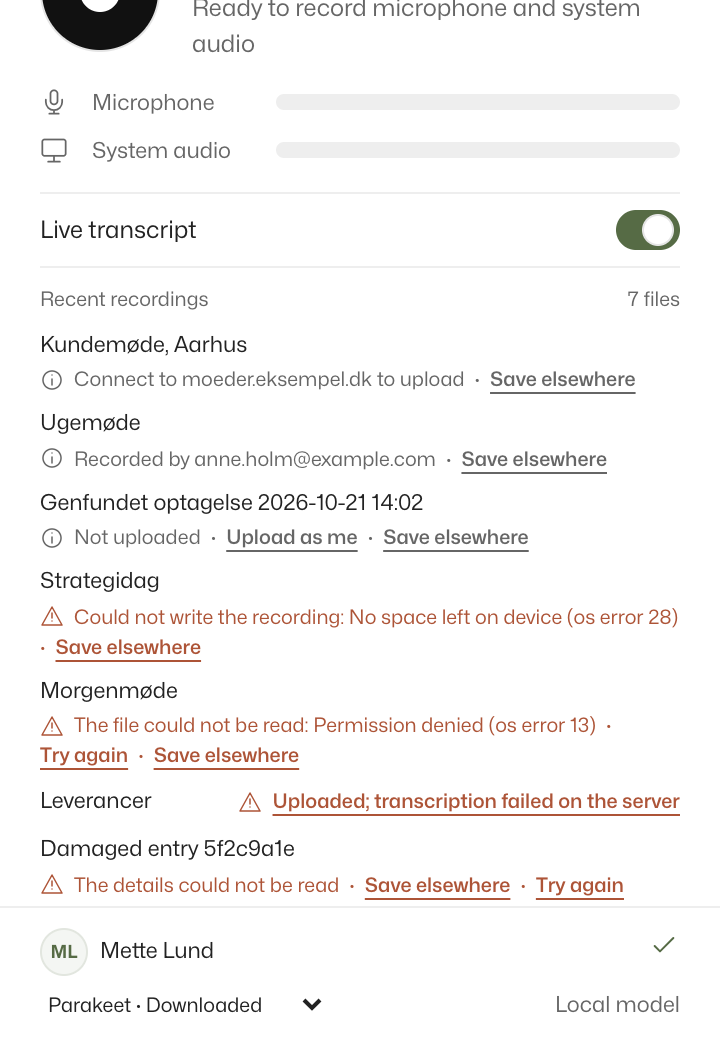
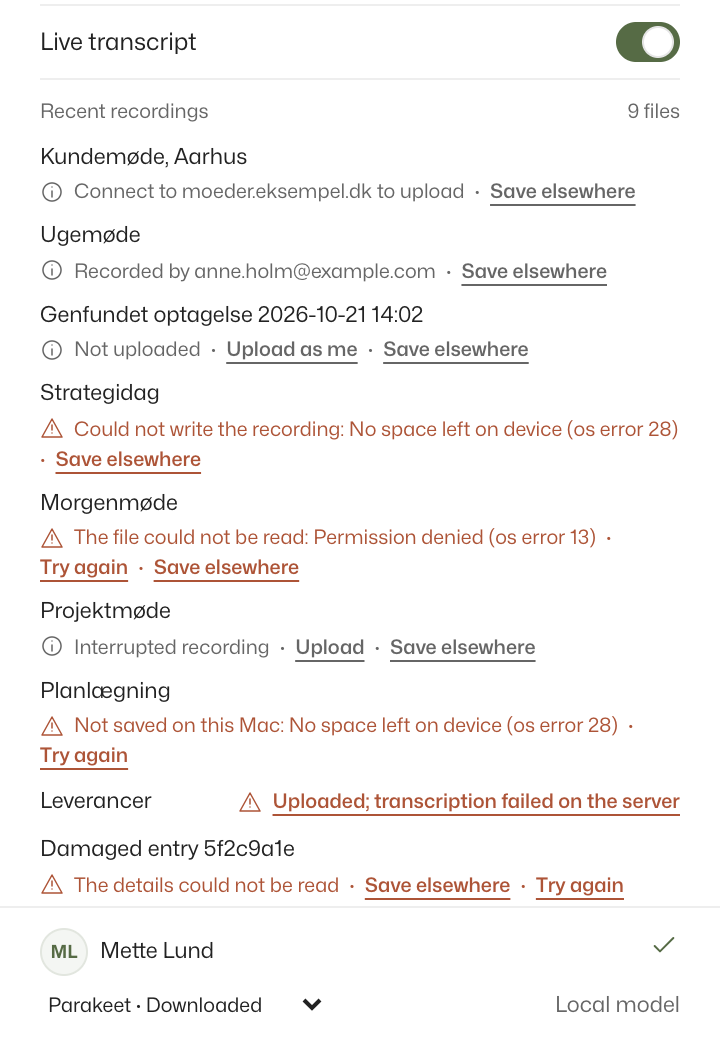
Decisions, README and screenshots after the second Codex pass

diff --git a/apps/recorder/test/placeholder.test.ts b/apps/recorder/test/placeholder.test.ts
@@ -7,7 +7,9 @@ import { setLanguage, translate } from '../src/locale';
 function hostInput() {
   const html = readFileSync(new URL('../index.html', import.meta.url), 'utf8');
   const tag = /<input[^>]*id="host"[^>]*>/s.exec(html)![0];
-  const attrs = Object.fromEntries([...tag.matchAll(/([a-z0-9-]+)="([^"]*)"/g)].map((m) => [m[1]!, m[2]!]));
+  const attrs = Object.fromEntries(
+    [...tag.matchAll(/([a-z0-9-]+)="([^"]*)"/g)].map((m) => [m[1]!, m[2]!]),
+  );
   const el = {
     attrs: { ...attrs } as Record<string, string>,
     dataset: { i18nAttr: attrs['data-i18n-attr'] } as Record<string, string | undefined>,
@@ -16,7 +18,8 @@ function hostInput() {
     },
   };
   const root = {
-    querySelectorAll: (sel: string) => (sel === '[data-i18n-attr]' && el.dataset.i18nAttr ? [el] : []),
+    querySelectorAll: (sel: string) =>
+      sel === '[data-i18n-attr]' && el.dataset.i18nAttr ? [el] : [],
   };
   return { el, root: root as unknown as ParentNode };
 }

diff --git a/apps/recorder/preview/fixtures.ts b/apps/recorder/preview/fixtures.ts
@@ -200,6 +200,13 @@ export const review: QueueItem[] = [
     local_error: 'Permission denied (os error 13)',
     can_save: true,
   }),
+  item({ id: 'r7', title: 'Projektmøde', status: 'uploading', needs_review: true, can_save: true }),
+  item({
+    id: 'r8',
+    title: 'Planlægning',
+    status: 'uploading',
+    unsaved: 'No space left on device (os error 28)',
+  }),
   item({
     id: 'r6',
     title: 'Leverancer',

diff --git a/apps/recorder/README.md b/apps/recorder/README.md
@@ -34,7 +34,7 @@ node apps/recorder/scripts/check-crate-licenses.mjs   # also run by pnpm check:l
 
 ## How it works
 
-- **Capture.** The microphone through cpal. System audio through a Core Audio process tap: a private, global stereo tap on every process but the recorder, read through a private aggregate device (`src/audio/macos_tap.rs`). Each source fills a lock-free ring; a mixer thread on the wall clock takes 20 ms frames, pads a source that is short, trims one that runs ahead, and writes stereo Opus in Ogg at 48 kbit/s: microphone left, system audio right. Pages reach the disk every second, so a crash leaves a file that plays to its last second, and the next start queues it.
+- **Capture.** The microphone through cpal. System audio through a Core Audio process tap: a private, global stereo tap on every process but the recorder, read through a private aggregate device (`src/audio/macos_tap.rs`). Each source fills a lock-free ring; a mixer thread on the wall clock takes 20 ms frames, pads a source that is short, trims one that runs ahead, and writes stereo Opus in Ogg at 48 kbit/s: microphone left, system audio right. Pages reach the disk every second, whole pages at a time, so a crash leaves a file that plays to its last second; the next start lists it as an interrupted recording, which uploads after the user chooses Upload.
 - **Ownership.** A recording belongs to the install and the user that were connected when it was made, and uploads only with that user's token to that install. Rows of another install or user wait, with Save elsewhere.
 - **Upload.** Per docs/spec.md "How a recording reaches the library": `POST /recordings` with the meeting, `source: desktop`, the SHA-256 and the size; 8 MiB chunks to `PUT …/chunks/{n}`; `POST …/complete`. A resume asks `GET /recordings/{id}` for `chunks_received`. `busy` waits for `Retry-After`. Failures retry with backoff (2 s doubling to 5 minutes, ±20 %). The local states are Recording, Uploading, Pending, Warn (24 hours), AskUser (7 days), Confirmed, Deleted (7 days after the confirm); `src/queue/state.rs` holds the rules and their tests.
 - **Connect.** Per docs/spec.md "Recorder connection": a PKCE verifier, the `/connect` page in the default browser, the pairing code on both sides, a poll of `POST /recorder/token`. The token goes to the Keychain; the rest of the token response (product name, theme colours, user name, interface language, live transcript default) to `settings.json`.
@@ -58,7 +58,7 @@ A denied permission shows in the window with a button to the right System Settin
 - `settings.json`: the install's address and branding, the live transcript switch, the chosen model.
 - `models/parakeet/`, `models/whisper/`: the local models, downloaded on first use from Hugging Face and checked against their SHA-256.
 
-The token is in the login Keychain, service `co.mtxt.recorder`, account the install's address.
+The token is in the login Keychain, service `co.mtxt.recorder`, account the install's address, stored with its token id; it is used only when that id is the one `settings.json` names.
 
 ## Reset
 

diff --git a/docs/decisions.md b/docs/decisions.md
@@ -300,3 +300,11 @@ Dated, with the reason. Newest at the bottom. The spec in `spec.md` states the r
 - **Model files come from pinned Hugging Face revisions** with their SHA-256; a complete partial file is checked and installed without a request.
 - **The crate check judges the whole build graph.** Build dependencies and proc macros too; MPL-2.0, CDLA-Permissive-2.0 and Unlicense are accepted only for the crates named in the script. NOTICE.md lists every shipped crate, generated from `cargo metadata`, and a test fails when the list is not current.
 - **The macOS permission texts are translated** through `InfoPlist.strings` per language, generated from the locale files.
+
+## 2026-10-23, packet 9 after the second Codex pass
+
+- **The credential is a binding plus a secret, written in that order.** `settings.json` holds the binding (install, user id, address, token id), written atomically with file and directory sync; the Keychain entry holds the token together with its token id. Connecting writes the binding first and the Keychain second; on start a Keychain token whose id is not the binding's means disconnected. A failed profile write aborts the reconnect and leaves the previous binding and token as they were; a failed Keychain write after it leaves the app disconnected. Disconnect removes the binding first.
+- **Only a complete read without audio is empty.** A damaged, truncated or bad-checksum Ogg stream is Unreadable with both files kept, even when audio pages follow. The writer keeps pages in a 256 KiB buffer and writes whole pages at each flush, so a killed process does not leave a torn page; a power cut can, and then the file is Unreadable until a person decides.
+- **No request follows an unsaved state.** The uploader's state callback returns a Result; a failed write stops the attempt before its next request, and the server id is on the disk before the first chunk, so a restart never creates a second recording on the server.
+- **A change that cannot be written is kept, not dropped.** The entry shows the new state with "Not saved on this Mac" and Try again; it is not uploaded, deleted or ticked until written; Retry and every tick write it again. Save elsewhere and the deletion after the confirm revert instead, because something irreversible follows them.
+- **A recording recovery finishes waits for the user.** After the app ended during a capture, nobody knows whether the end was clean or whether a later state write failed, so the recovered recording shows "Interrupted recording" with Upload and Save elsewhere, and uploads only after Upload.

diff --git a/apps/recorder/docs/screenshots/README.md b/apps/recorder/docs/screenshots/README.md
@@ -18,7 +18,7 @@
 | `main-ask.png` | The 7-day question |
 | `main-mic-only.png` | System audio not allowed: recording the microphone only |
 | `main-model-dialog.png` | The size warning before a model download |
-| `main-review.png`, `main-review-scrolled.png`, `main-review-da.png` | After the Codex review: Connect to another install, Recorded by another user, a recovered recording (Upload as me), a write failure, an unreadable file, transcription failed on the server, a damaged entry; each with its next step |
+| `main-review.png`, `main-review-scrolled.png`, `main-review-da.png` | After the Codex review: Connect to another install, Recorded by another user, a recovered recording (Upload as me), a write failure, an unreadable file, transcription failed on the server, a damaged entry, an interrupted recording (Upload), a change not saved on the Mac (Try again); each with its next step |
 | `main-mic-lost.png` | The microphone was disconnected during a recording; system audio continues |
 | `main-state-save.png` | The queue could not be saved on the Mac, with Try again |
 | `main-figure05-da.png`, `main-figure05-dark.png`, `main-hard-da-dark.png` | Danish and dark |
